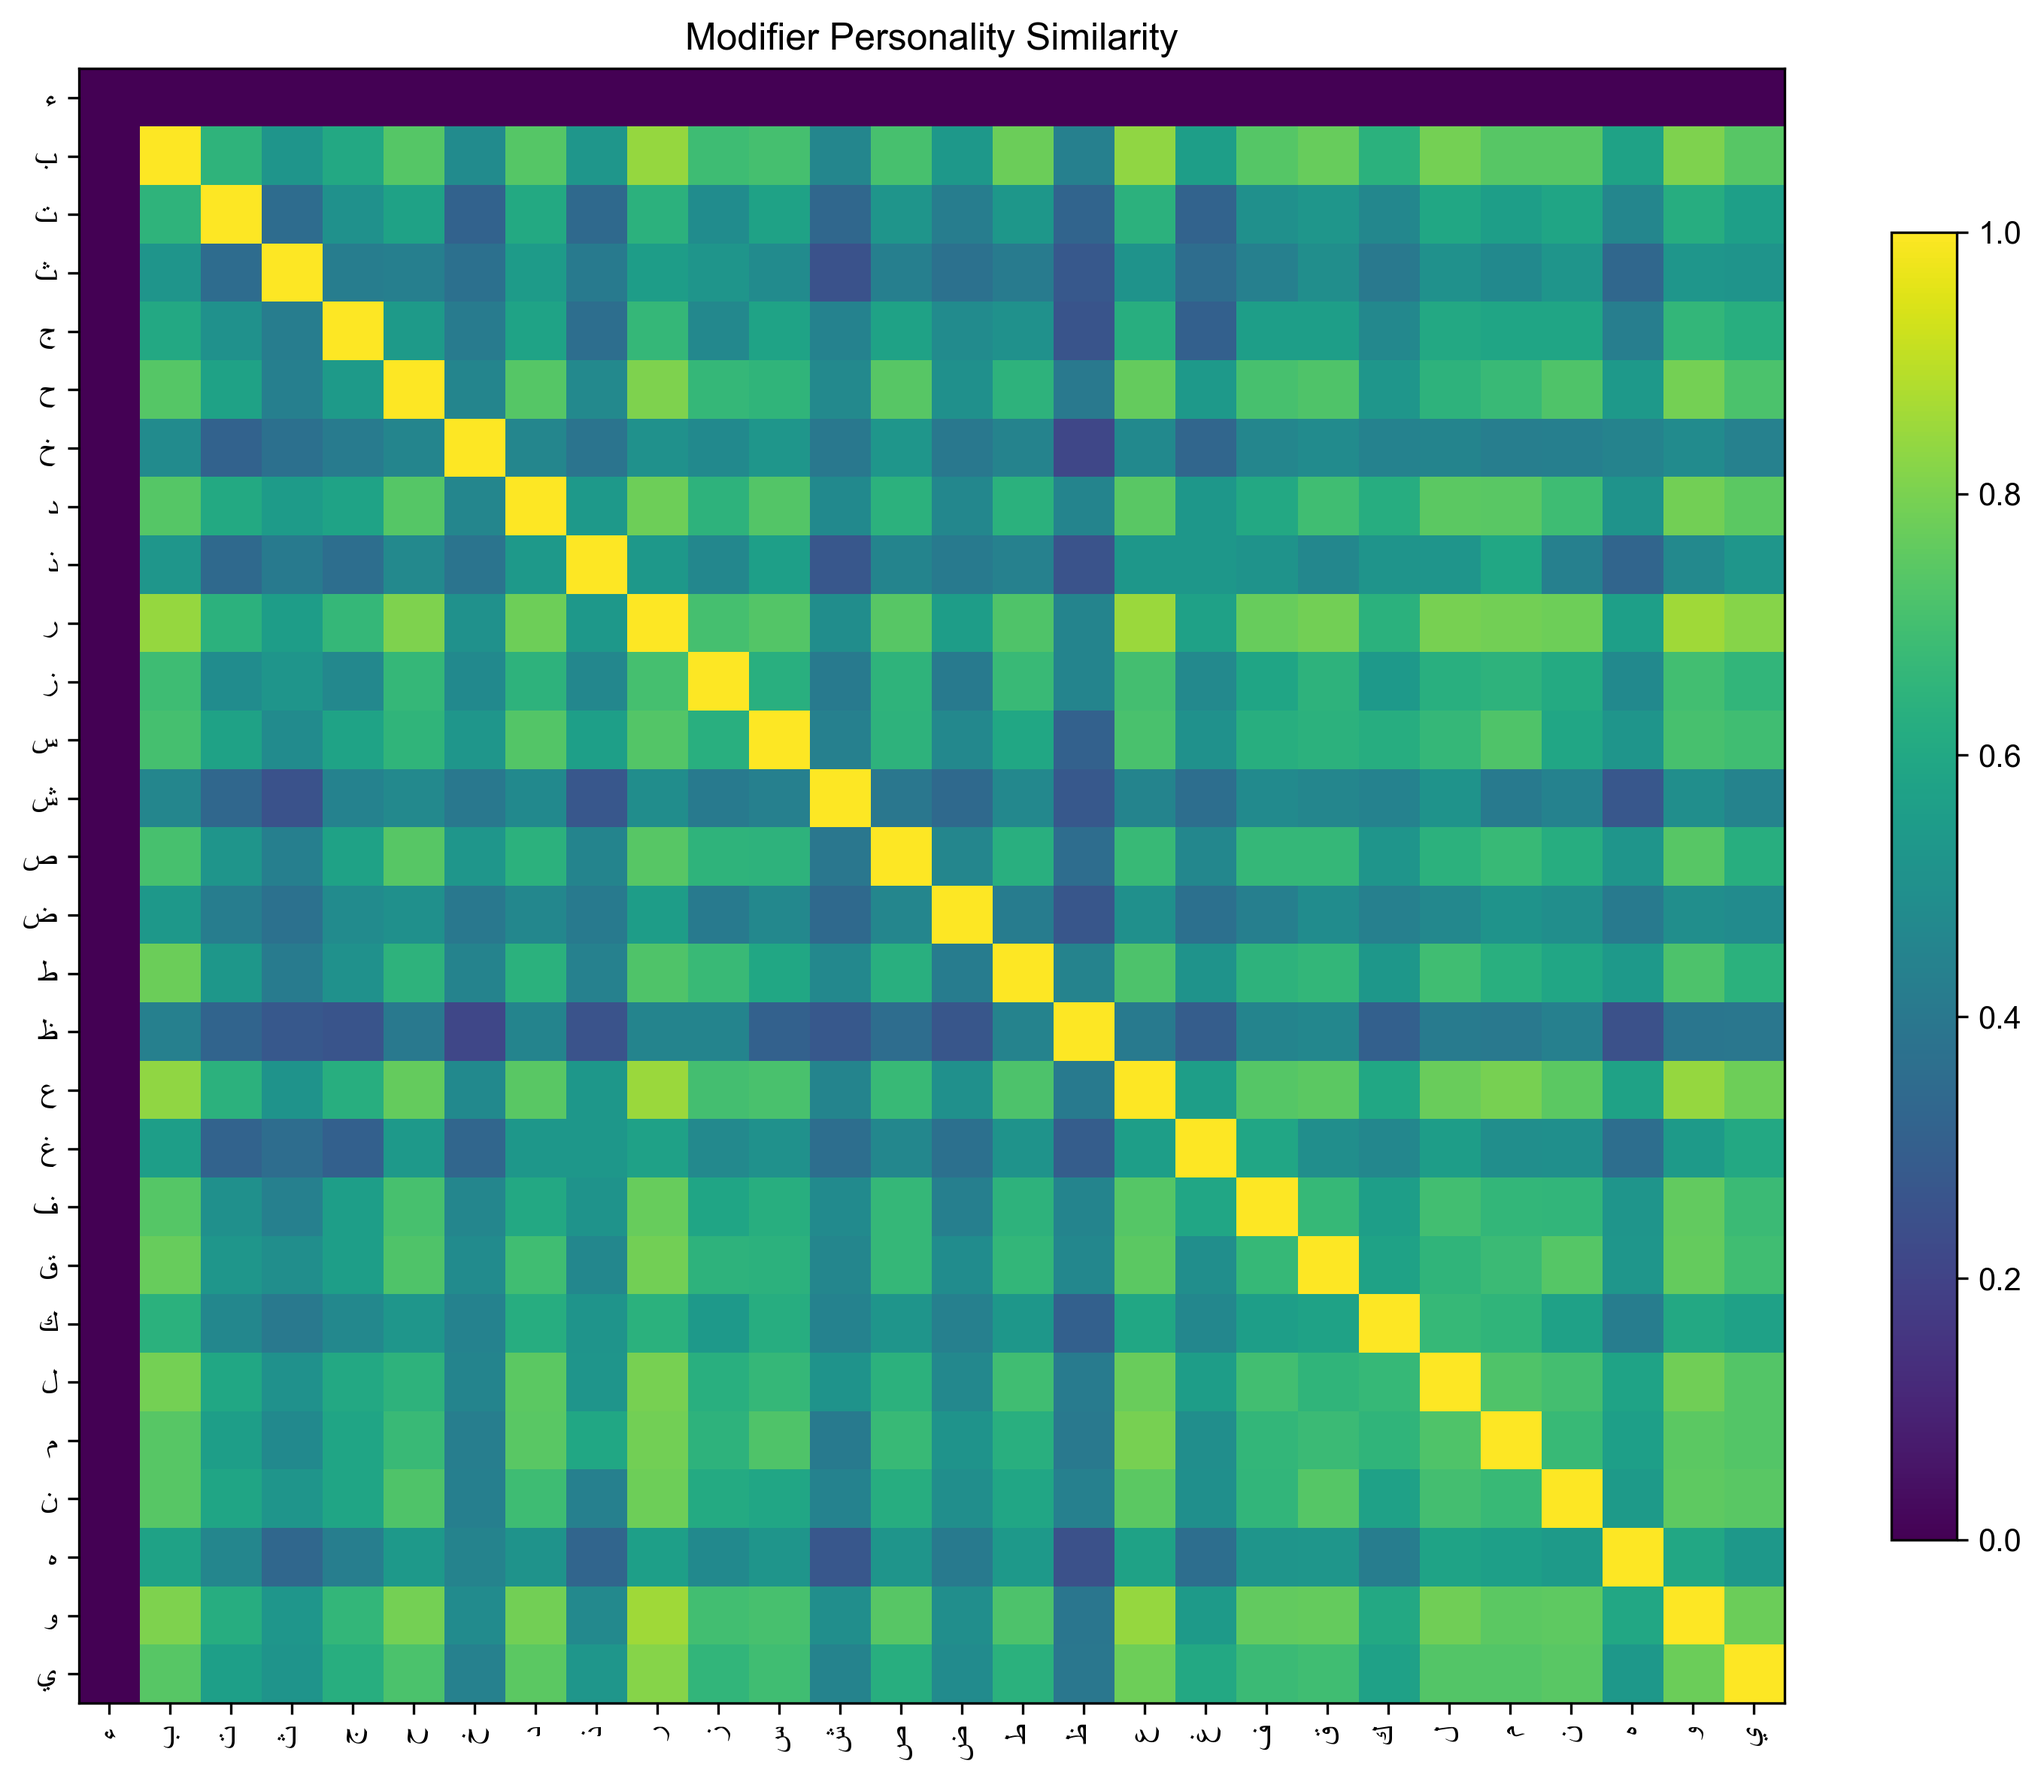
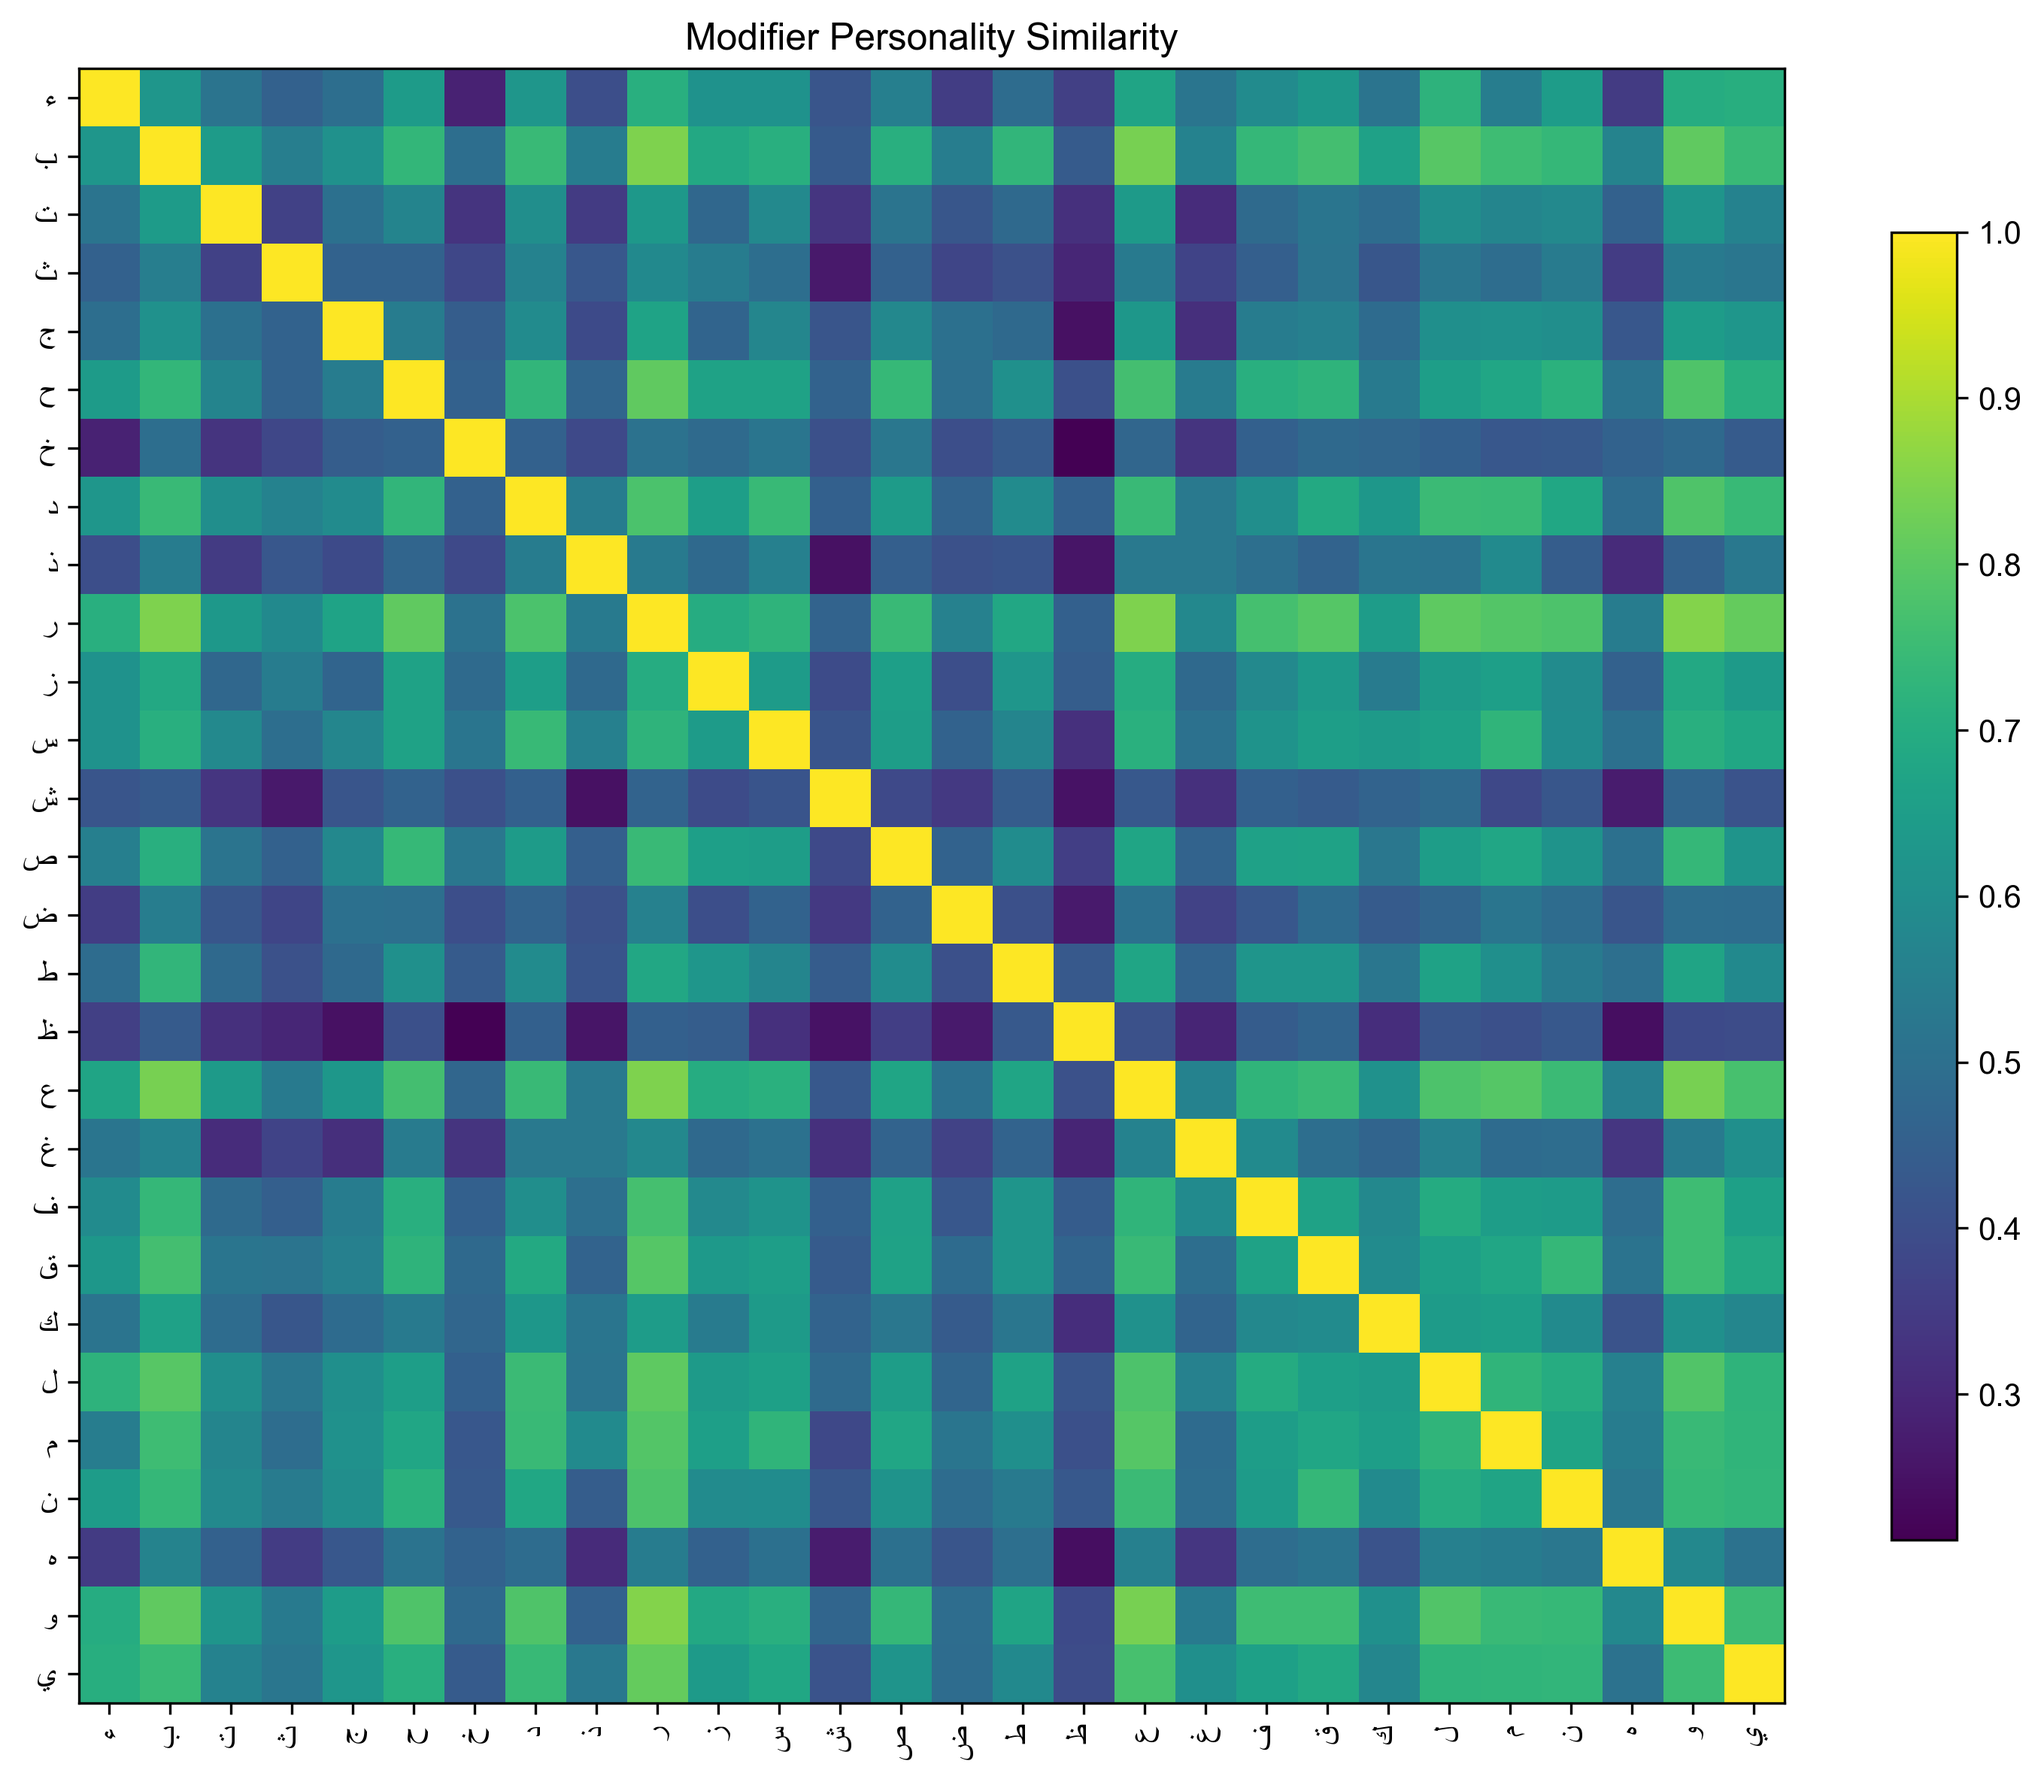
feat(lv1): add phase 2 metathesis and substitution results

diff --git a/Juthoor-ArabicGenome-LV1/scripts/research_factory/axis3/exp_3_1_modifier_personality.py b/Juthoor-ArabicGenome-LV1/scripts/research_factory/axis3/exp_3_1_modifier_personality.py
@@ -42,11 +42,11 @@ NORMALIZE_MAP = str.maketrans({"أ": "ء", "إ": "ء", "آ": "ء", "ى": "ي"})
 
 
 def canonical_added_letter(tri_root: str) -> str | None:
-    candidate = SPLIT_RE.split(tri_root.strip())[0]
+    candidate = SPLIT_RE.split(tri_root.strip())[0].translate(NORMALIZE_MAP)
     letters = ARABIC_RE.findall(candidate)
     if not letters:
         return None
-    return letters[-1].translate(NORMALIZE_MAP)
+    return letters[-1]
 
 
 def pairwise_consistency(vectors: np.ndarray) -> float | None:
